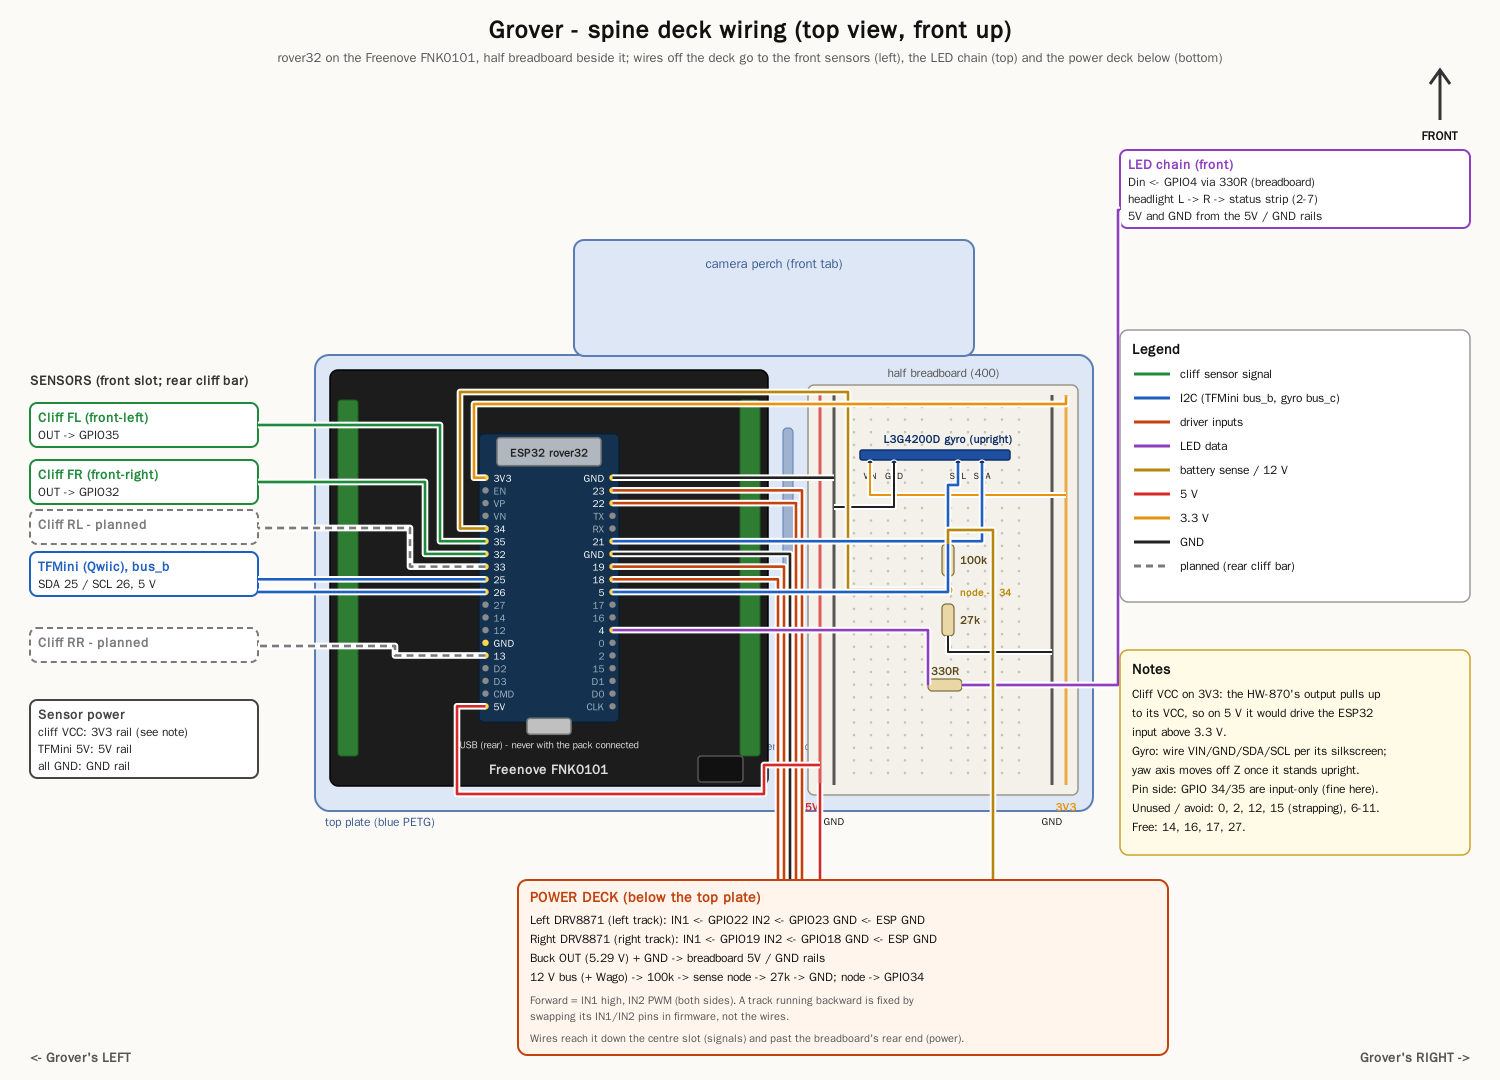
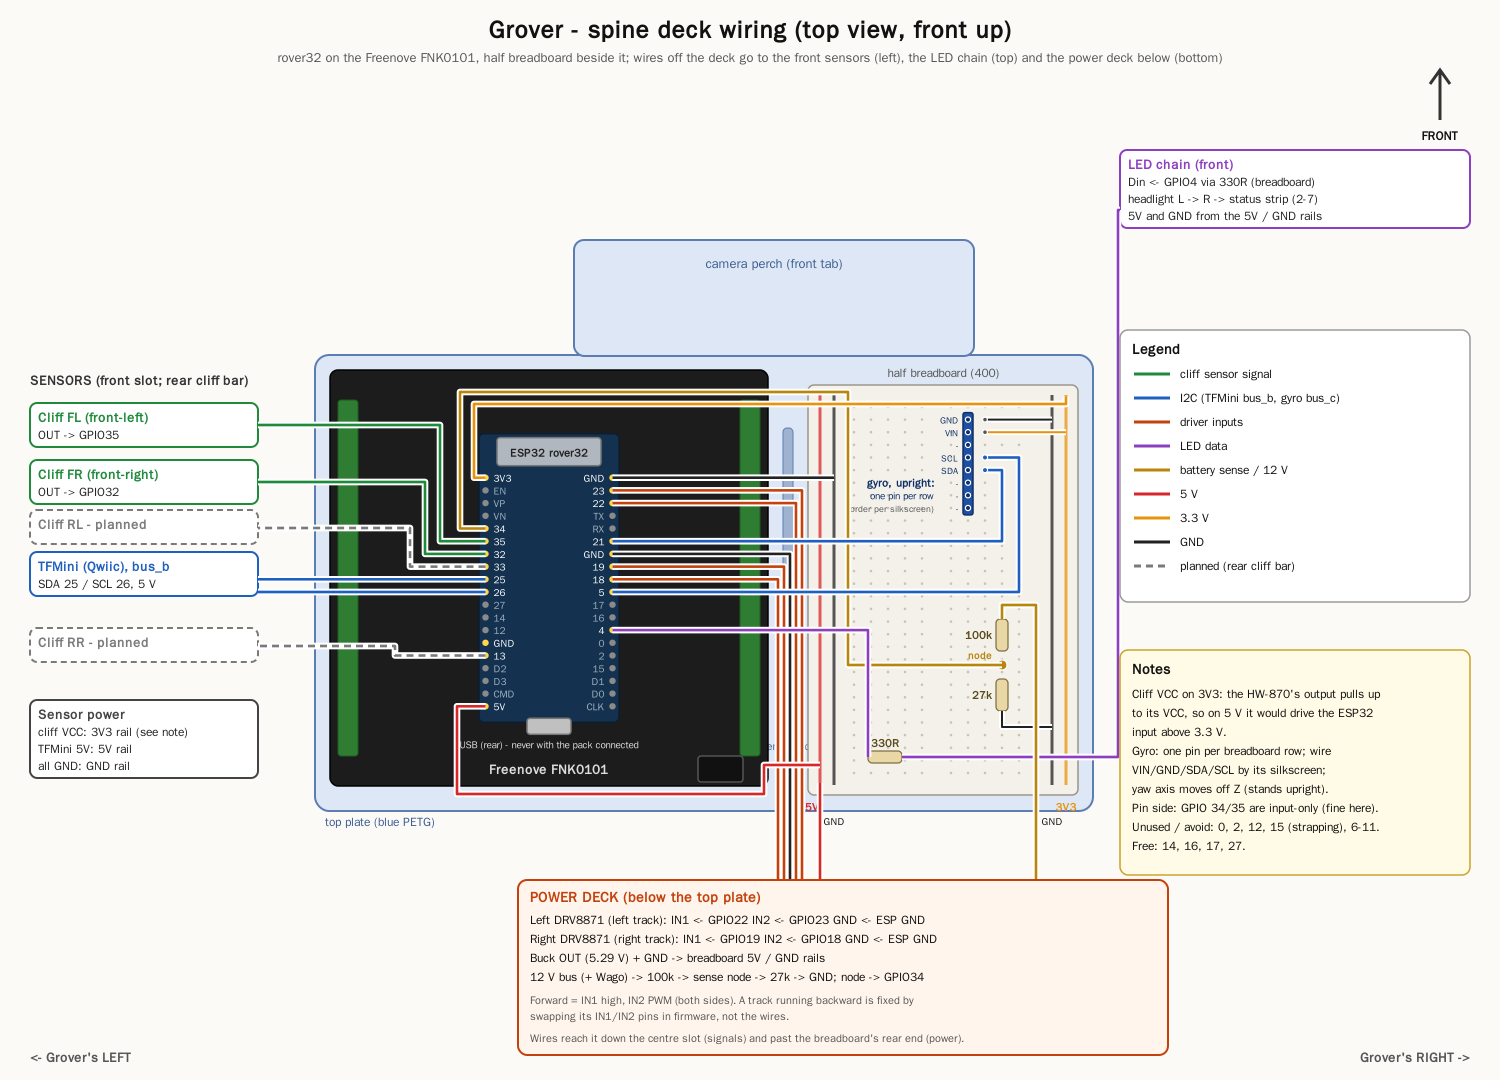
spine deck diagram: gyro across the rows (one pin per 5-hole row), per Enoch

Changed region(s): [[0.552, 0.3667, 0.736, 0.7028], [0.736, 0.6722, 0.92, 0.7944], [0.644, 0.7333, 0.7053, 0.7639]]

diff --git a/hardware/carrier/spine_deck_wiring.py b/hardware/carrier/spine_deck_wiring.py
@@ -122,34 +122,40 @@ for r in range(30):                                                    # hole gr
         add(f'<circle cx="{x:.1f}" cy="{y:.1f}" r="1.3" fill="#c9c3b6"/>')
 bcx = bx0 + bw / 2
 
-# gyro, upright in the breadboard (seen from above: a thin edge)
-gy = by0 + 70
-rect(bx0 + 52, gy - 5, 150, 10, "#1e4fa0", "#0d2f66", rx=2)
-text(bx0 + 140, gy - 12, "L3G4200D gyro (upright)", 11, "middle", col="#0d2f66", weight="bold")
-gyro = {"VIN": bx0 + 62, "GND": bx0 + 86, "SCL": bx0 + 150, "SDA": bx0 + 174}
-for k, x in gyro.items():
-    dot(x, gy + 8, "#0d2f66", 3)
-    text(x, gy + 24, k, 9, "middle")
-line([(gyro["VIN"], gy + 8), (gyro["VIN"], gy + 40), (rail["3V3"], gy + 40)], C["v33"], 2)
-line([(gyro["GND"], gy + 8), (gyro["GND"], gy + 52), (rail["GNDa"], gy + 52)], C["gnd"], 2)
+# gyro, upright in the breadboard: its 8 in-line pins run ALONG a column, one
+# pin per 5-hole row (each row is one node), right half, column 6
+rp = (bh - 44) / 29
+def ry(r): return by0 + 22 + r * rp
+def cx(c): return bx0 + 46 + c * 17 + (12 if c >= 5 else 0)
+gx = cx(6)
+rect(gx - 5, ry(1) - 7, 10, ry(8) - ry(1) + 14, "#1e4fa0", "#0d2f66", rx=2)
+gpins = {1: "GND", 2: "VIN", 4: "SCL", 5: "SDA"}     # row order illustrative - follow the silkscreen
+for r in range(1, 9):
+    dot(gx, ry(r), "#0d2f66", 2.6)
+    text(gx - 10, ry(r) + 4, gpins.get(r, "-"), 9, "end", col="#0d2f66")
+text(gx - 34, ry(6) + 4, "gyro, upright:", 11, "end", col="#0d2f66", weight="bold")
+text(gx - 34, ry(7) + 4, "one pin per row", 10, "end", col="#0d2f66")
+text(gx - 34, ry(8) + 4, "(order per silkscreen)", 9, "end", col="#555")
+line([(cx(7), ry(2)), (rail["3V3"], ry(2))], C["v33"], 2)
+line([(cx(7), ry(1)), (rail["GNDb"], ry(1))], C["gnd"], 2)
+for r in (1, 2): dot(cx(7), ry(r), "#555", 2.4)
 
 # battery divider: 12 V bus -> 100k -> node -> 27k -> GND; node -> GPIO34
-dvy = by0 + 205
-def resistor(x, y, label, vertical=True):
-    if vertical:
-        rect(x - 6, y - 16, 12, 32, "#e9d8a6", "#7a6a3a", rx=4, sw=1.2)
-    text(x + 12, y + 4, label, 11, col="#5a4a1a", weight="bold")
-rx1 = bx0 + 140
+dvy = by0 + 280
+def resistor(x, y, label):
+    rect(x - 6, y - 16, 12, 32, "#e9d8a6", "#7a6a3a", rx=4, sw=1.2)
+    text(x - 10, y + 4, label, 11, "end", col="#5a4a1a", weight="bold")
+rx1 = cx(8)
 resistor(rx1, dvy - 30, "100k")
 resistor(rx1, dvy + 30, "27k")
 dot(rx1, dvy, C["bat"], 5)
-text(rx1 + 12, dvy + 6, "node -> 34", 10, col=C["bat"], weight="bold")
+text(rx1 - 10, dvy - 6, "node", 10, "end", col=C["bat"], weight="bold")
 line([(rx1, dvy + 46), (rx1, dvy + 62), (rail["GNDb"], dvy + 62)], C["gnd"], 2)
 
 # LED series resistor
-lry = by0 + 300
-rect(bx0 + 120, lry - 6, 34, 12, "#e9d8a6", "#7a6a3a", rx=4, sw=1.2)
-text(bx0 + 137, lry - 10, "330R", 11, "middle", col="#5a4a1a", weight="bold")
+lry = by0 + 372
+rect(bx0 + 60, lry - 6, 34, 12, "#e9d8a6", "#7a6a3a", rx=4, sw=1.2)
+text(bx0 + 77, lry - 10, "330R", 11, "middle", col="#5a4a1a", weight="bold")
 
 # ---- wires from the devkit ---------------------------------------------------
 # left side: front / rear sensors
@@ -189,22 +195,24 @@ line([P["RGND2"], (slot["GND2"], P["RGND2"][1]), (slot["GND2"], PDy)], C["gnd"])
 line([P["R19"], (slot["19"], P["R19"][1]), (slot["19"], PDy)], C["drv"])
 line([P["R18"], (slot["18"], P["R18"][1]), (slot["18"], PDy)], C["drv"])
 # gyro I2C (bus_c) and LED data cross over the slot wires
-line([P["R21"], (gyro["SDA"], P["R21"][1]), (gyro["SDA"], gy + 8)], C["i2c"])
-line([P["R5"], (gyro["SCL"] - 10, P["R5"][1]), (gyro["SCL"] - 10, gy + 30), (gyro["SCL"], gy + 30), (gyro["SCL"], gy + 8)], C["i2c"])
-line([P["R4"], (bx0 + 120, P["R4"][1]), (bx0 + 120, lry), (bx0 + 120, lry)], C["led"])
+line([P["R21"], (cx(8), P["R21"][1]), (cx(8), ry(5)), (cx(7), ry(5))], C["i2c"])
+dot(cx(7), ry(5), C["i2c"], 2.6)
+line([P["R5"], (cx(9), P["R5"][1]), (cx(9), ry(4)), (cx(7), ry(4))], C["i2c"])
+dot(cx(7), ry(4), C["i2c"], 2.6)
+line([P["R4"], (bx0 + 60, P["R4"][1]), (bx0 + 60, lry)], C["led"])
 # LED chain box (top right) <- 330R
 LEDx, LEDy = 1120, 150
 box(LEDx, LEDy, 350, [("LED chain (front)", True), ("Din <- GPIO4 via 330R (breadboard)", False),
                       ("headlight L -> R -> status strip (2-7)", False), ("5V and GND from the 5V / GND rails", False)],
     C["led"])
-line([(bx0 + 154, lry), (bx0 + bw + 40, lry), (bx0 + bw + 40, LEDy + 60), (LEDx, LEDy + 60)], C["led"])
+line([(bx0 + 94, lry), (bx0 + bw + 40, lry), (bx0 + bw + 40, LEDy + 60), (LEDx, LEDy + 60)], C["led"])
 
 # 5V: buck -> breadboard 5V rail -> devkit 5V pin
 line([(rail["5V"], PDy), (rail["5V"], by0 + bh - 12)], C["v5"])
 line([(rail["5V"], by0 + bh - 30), (gx0 - 4, by0 + bh - 30), (gx0 - 4, fy0 + fh + 8), (dx0 - 22, fy0 + fh + 8),
       (dx0 - 22, P["L5V"][1]), P["L5V"]], C["v5"])
 # 12 V bus -> 100k (top of divider)
-line([(bx0 + 185, PDy), (bx0 + 185, dvy - 60), (rx1, dvy - 60), (rx1, dvy - 46)], C["bat"])
+line([(bx0 + 228, PDy), (bx0 + 228, dvy - 60), (rx1, dvy - 60), (rx1, dvy - 46)], C["bat"])
 
 # ---- power deck box (below) ------------------------------------------------
 pdx, pdw = gx0 - 250, 650
@@ -231,14 +239,15 @@ for i, (k, s) in enumerate([("sig", "cliff sensor signal"), ("i2c", "I2C (TFMini
     text(lgx + 60, y, s, 12)
 
 nx, ny = 1120, 650
-rect(nx, ny, 350, 205, "#fffbe6", "#c9a227", rx=8)
+rect(nx, ny, 350, 225, "#fffbe6", "#c9a227", rx=8)
 text(nx + 12, ny + 24, "Notes", 14, weight="bold")
 for i, s in enumerate([
         "Cliff VCC on 3V3: the HW-870's output pulls up",
         "to its VCC, so on 5 V it would drive the ESP32",
         "input above 3.3 V.",
-        "Gyro: wire VIN/GND/SDA/SCL per its silkscreen;",
-        "yaw axis moves off Z once it stands upright.",
+        "Gyro: one pin per breadboard row; wire",
+        "VIN/GND/SDA/SCL by its silkscreen;",
+        "yaw axis moves off Z (stands upright).",
         "Pin side: GPIO 34/35 are input-only (fine here).",
         "Unused / avoid: 0, 2, 12, 15 (strapping), 6-11.",
         "Free: 14, 16, 17, 27."]):
